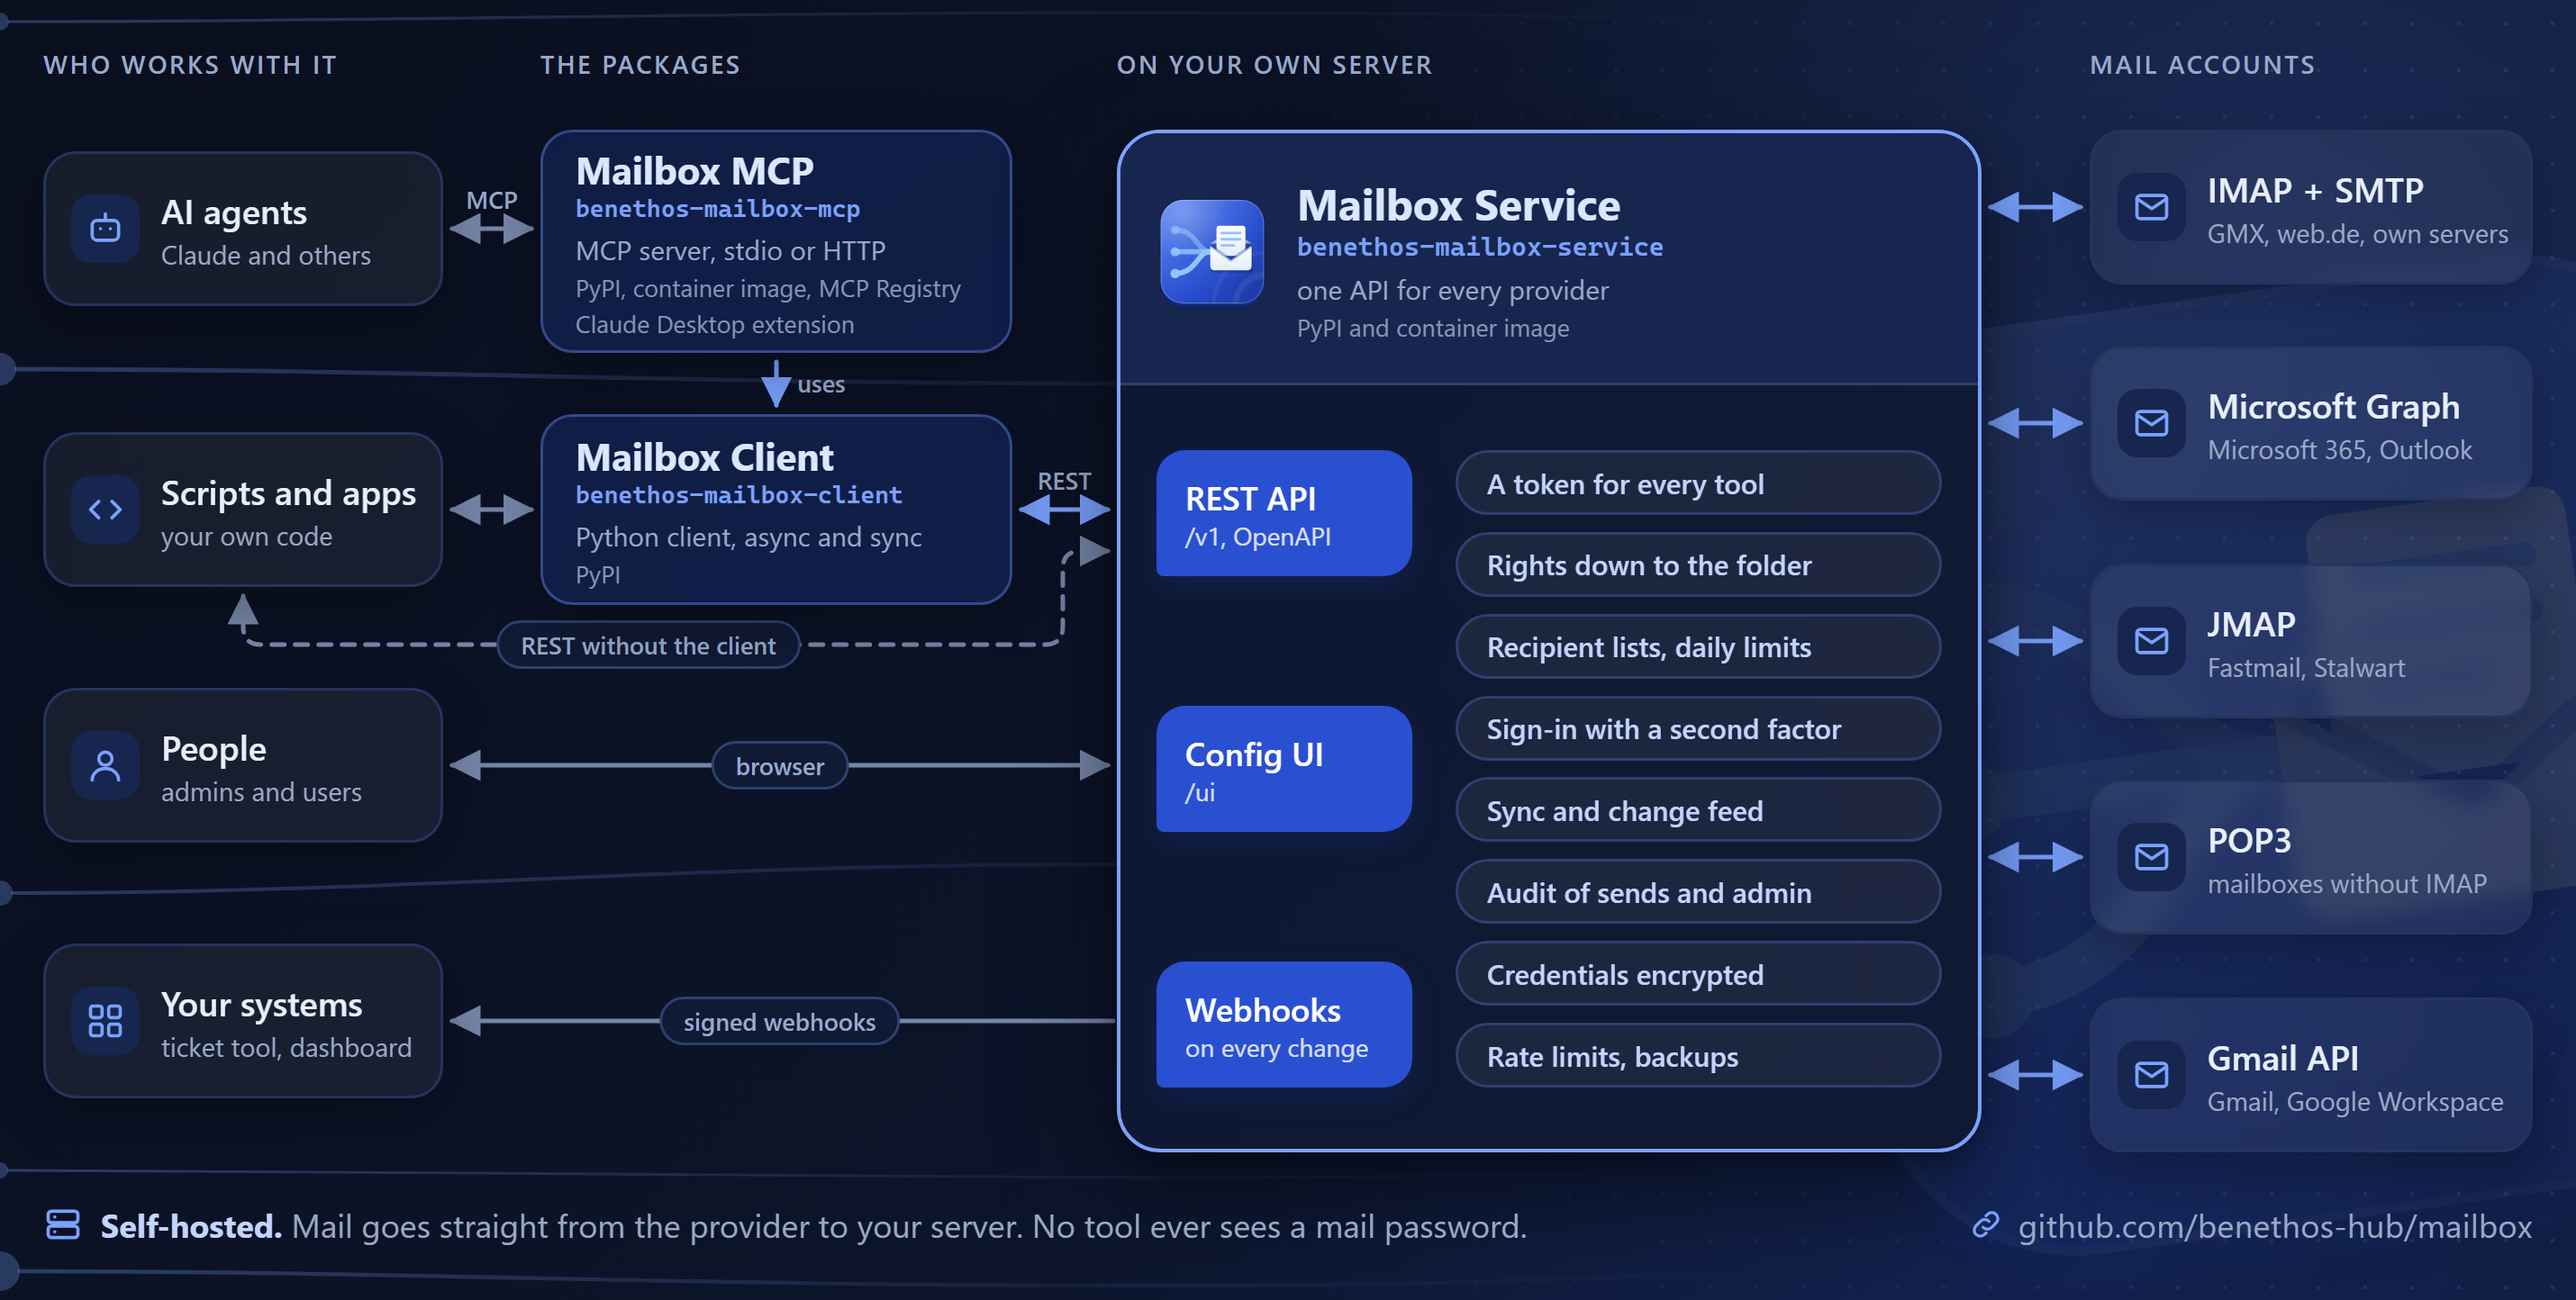
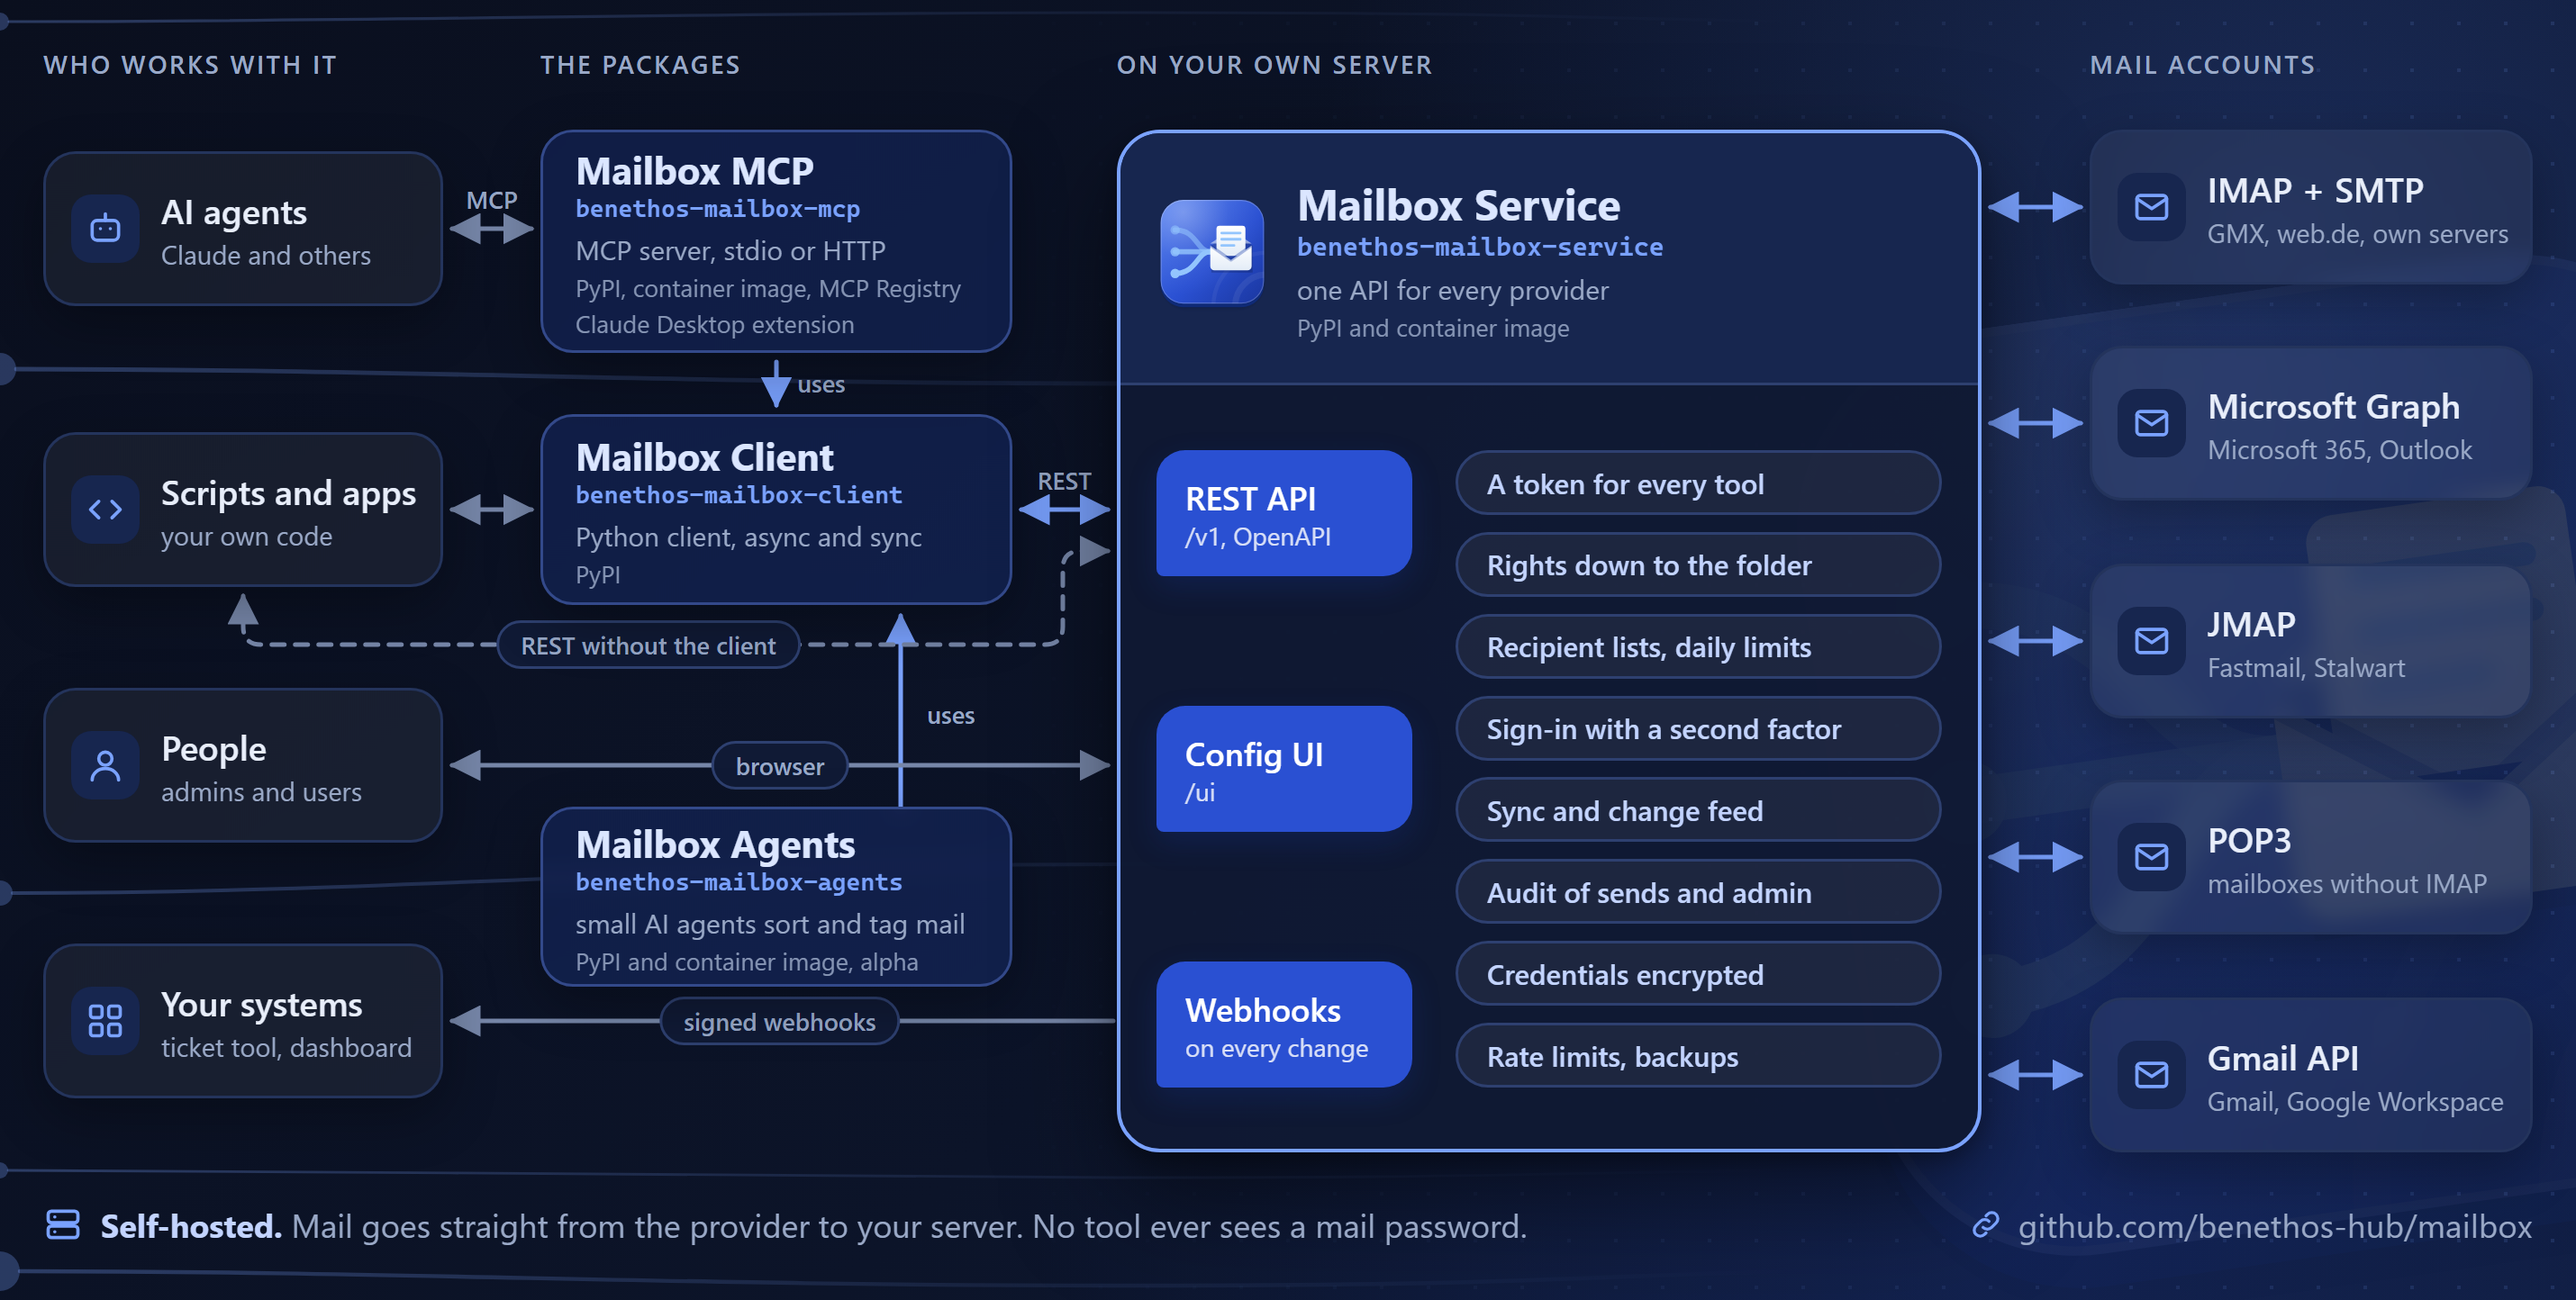
The main diagram shows the agents
The card of mailbox-agents stands in the column of the packages, with
an arrow to the client it uses. The alt text of the repository README
names it.

Changed region(s): [[0.1867, 0.5921, 0.4045, 0.7791], [0.3423, 0.5298, 0.3734, 0.5609], [0.3423, 0.4675, 0.3734, 0.4986]]

diff --git a/assets/architecture/architecture.html b/assets/architecture/architecture.html
@@ -196,6 +196,8 @@
       <line class="blue" x1="431" y1="201" x2="431" y2="225" marker-end="url(#b)"/>
       <!-- the client to the REST API -->
       <line class="blue" x1="567" y1="283" x2="615" y2="283" marker-start="url(#b)" marker-end="url(#b)"/>
+      <!-- the agents use the client -->
+      <line class="blue" x1="500" y1="448" x2="500" y2="342" marker-end="url(#b)"/>
       <!-- scripts and apps to the REST API without the client -->
       <path class="plain" stroke-dasharray="7 6" d="M 135 331 V 348 Q 135 358 145 358 H 580 Q 590 358 590 348 V 316 Q 590 306 600 306 H 615" marker-start="url(#p)" marker-end="url(#p)"/>
       <!-- people to /ui, webhooks out to your systems -->
@@ -211,6 +213,7 @@
     <text x="273" y="116">MCP</text>
     <text x="456" y="218">uses</text>
     <text x="591" y="272">REST</text>
+    <text x="528" y="402">uses</text>
   </svg>
   <div class="way" style="left:360px; top:358px">REST without the client</div>
   <div class="way" style="left:433px; top:425px">browser</div>
@@ -235,6 +238,7 @@
 
   <div class="card package" style="top:72px; height:124px"><div><b>Mailbox MCP</b><code>benethos-mailbox-mcp</code><small>MCP server, stdio or HTTP</small><small>PyPI, container image, MCP Registry</small><small>Claude Desktop extension</small></div></div>
   <div class="card package" style="top:230px; height:106px"><div><b>Mailbox Client</b><code>benethos-mailbox-client</code><small>Python client, async and sync</small><small>PyPI</small></div></div>
+  <div class="card package" style="top:448px; height:100px"><div><b>Mailbox Agents</b><code>benethos-mailbox-agents</code><small>small AI agents sort and tag mail</small><small>PyPI and container image, alpha</small></div></div>
 
   <div class="service">
     <div class="top">

diff --git a/README.md b/README.md
@@ -68,7 +68,7 @@ operations it was given, nothing more.
 
 <picture>
   <source srcset="assets/architecture/architecture-dark.png" media="(prefers-color-scheme: dark)">
-  <img src="assets/architecture/architecture.png" alt="AI agents reach mailbox-mcp over MCP, scripts and apps use mailbox-client or call the REST API themselves, and mailbox-mcp builds on mailbox-client. mailbox-client calls the REST API of mailbox-service, people use its configuration UI in the browser, and its signed webhooks report changes to your systems. mailbox-service, on your own server, connects to the mail accounts over IMAP and SMTP, Microsoft Graph, JMAP, POP3 and the Gmail API.">
+  <img src="assets/architecture/architecture.png" alt="AI agents reach mailbox-mcp over MCP, scripts and apps use mailbox-client or call the REST API themselves, and mailbox-mcp and mailbox-agents build on mailbox-client. mailbox-client calls the REST API of mailbox-service, people use its configuration UI in the browser, and its signed webhooks report changes to your systems. mailbox-service, on your own server, connects to the mail accounts over IMAP and SMTP, Microsoft Graph, JMAP, POP3 and the Gmail API.">
 </picture>
 
 That makes a few things simple that are hard otherwise.
